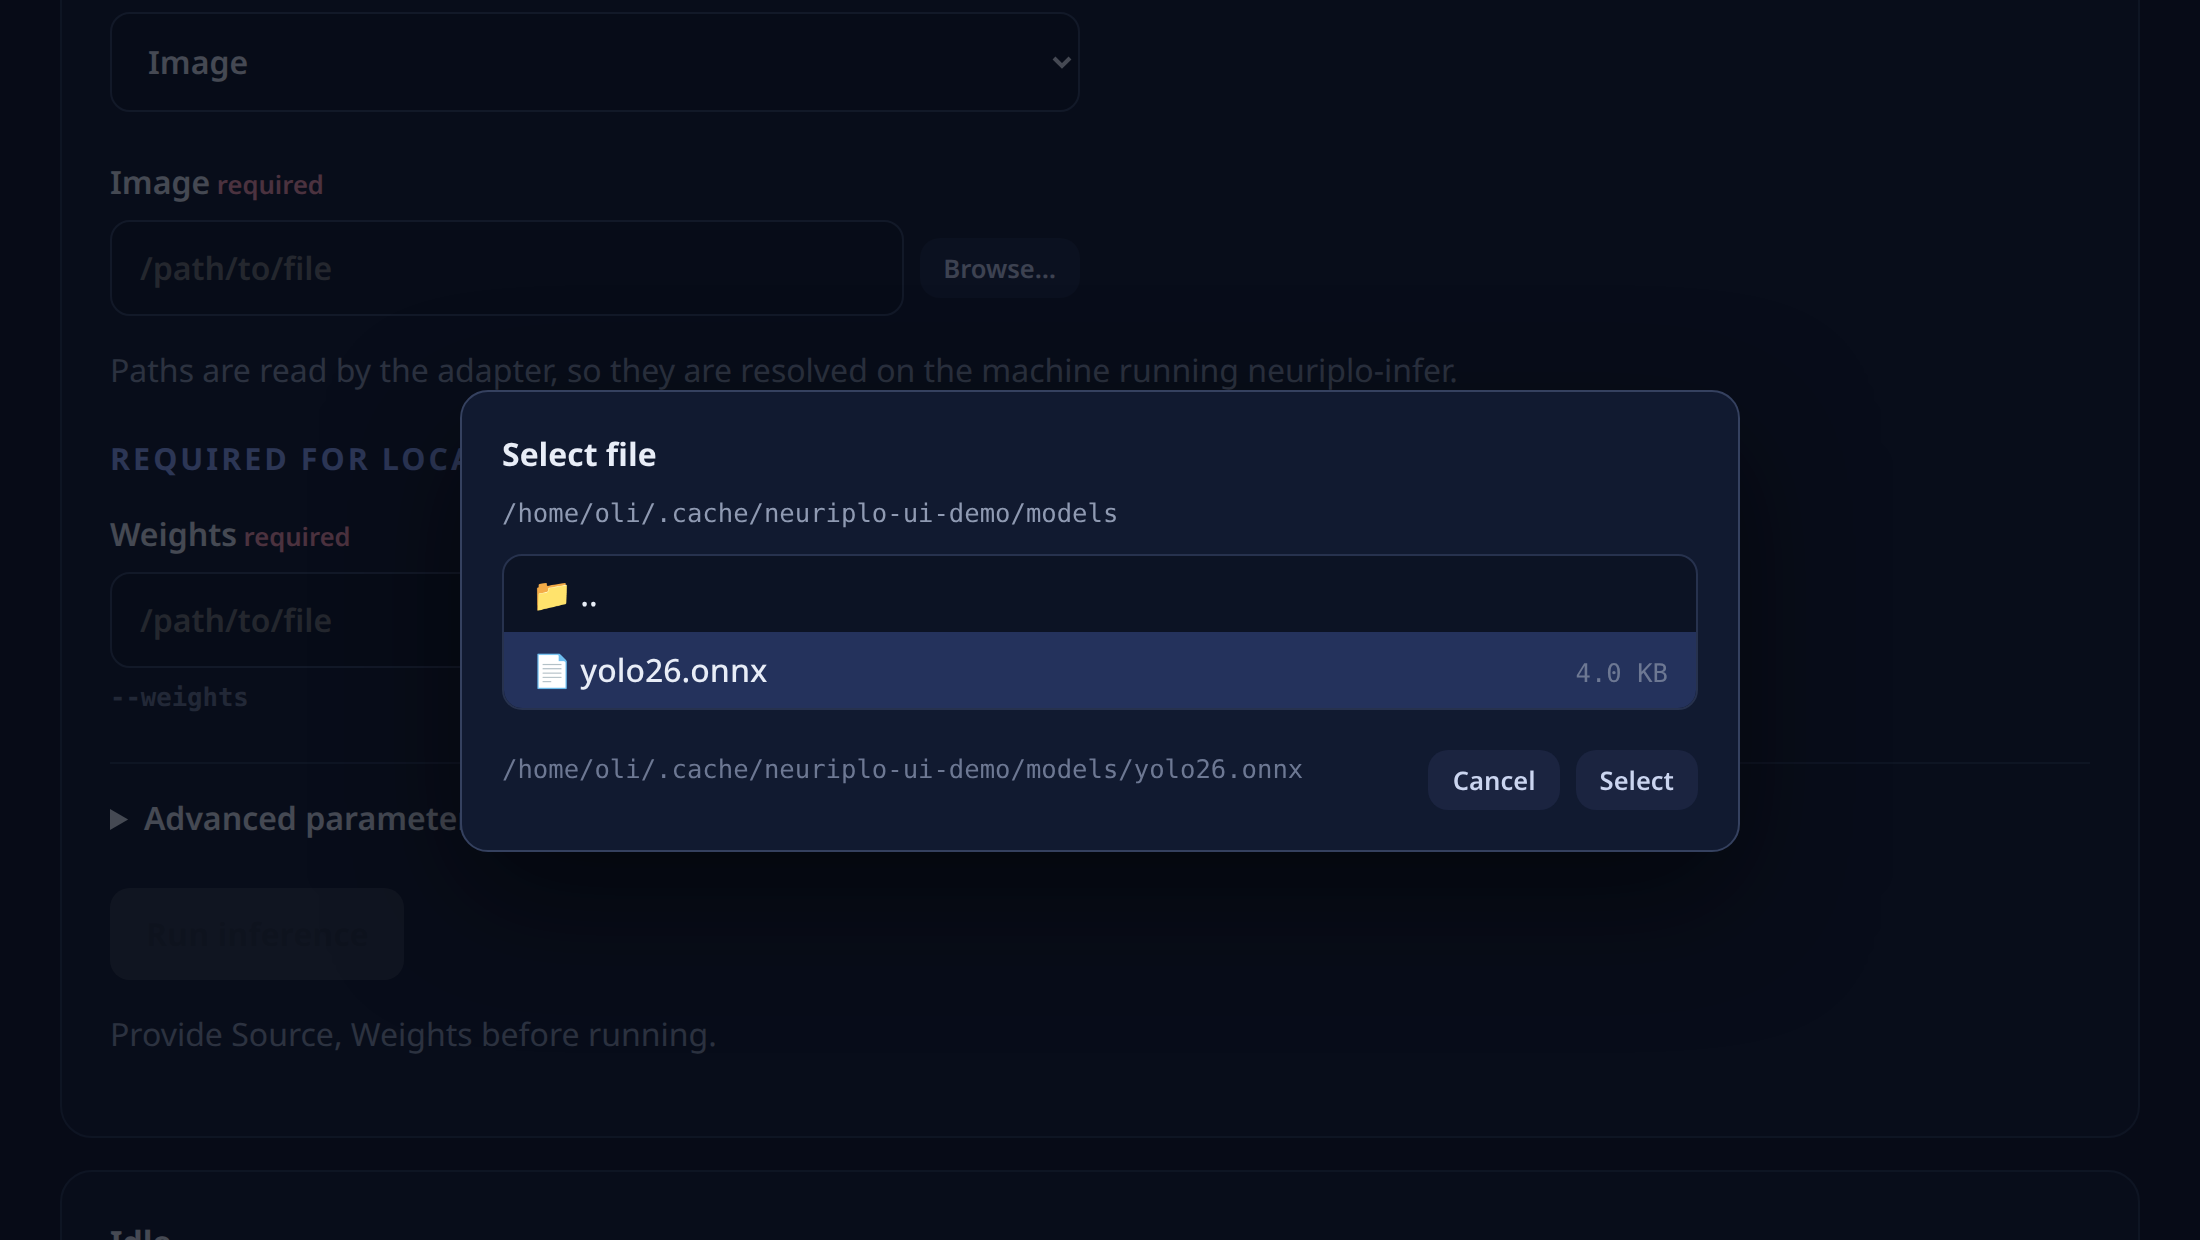
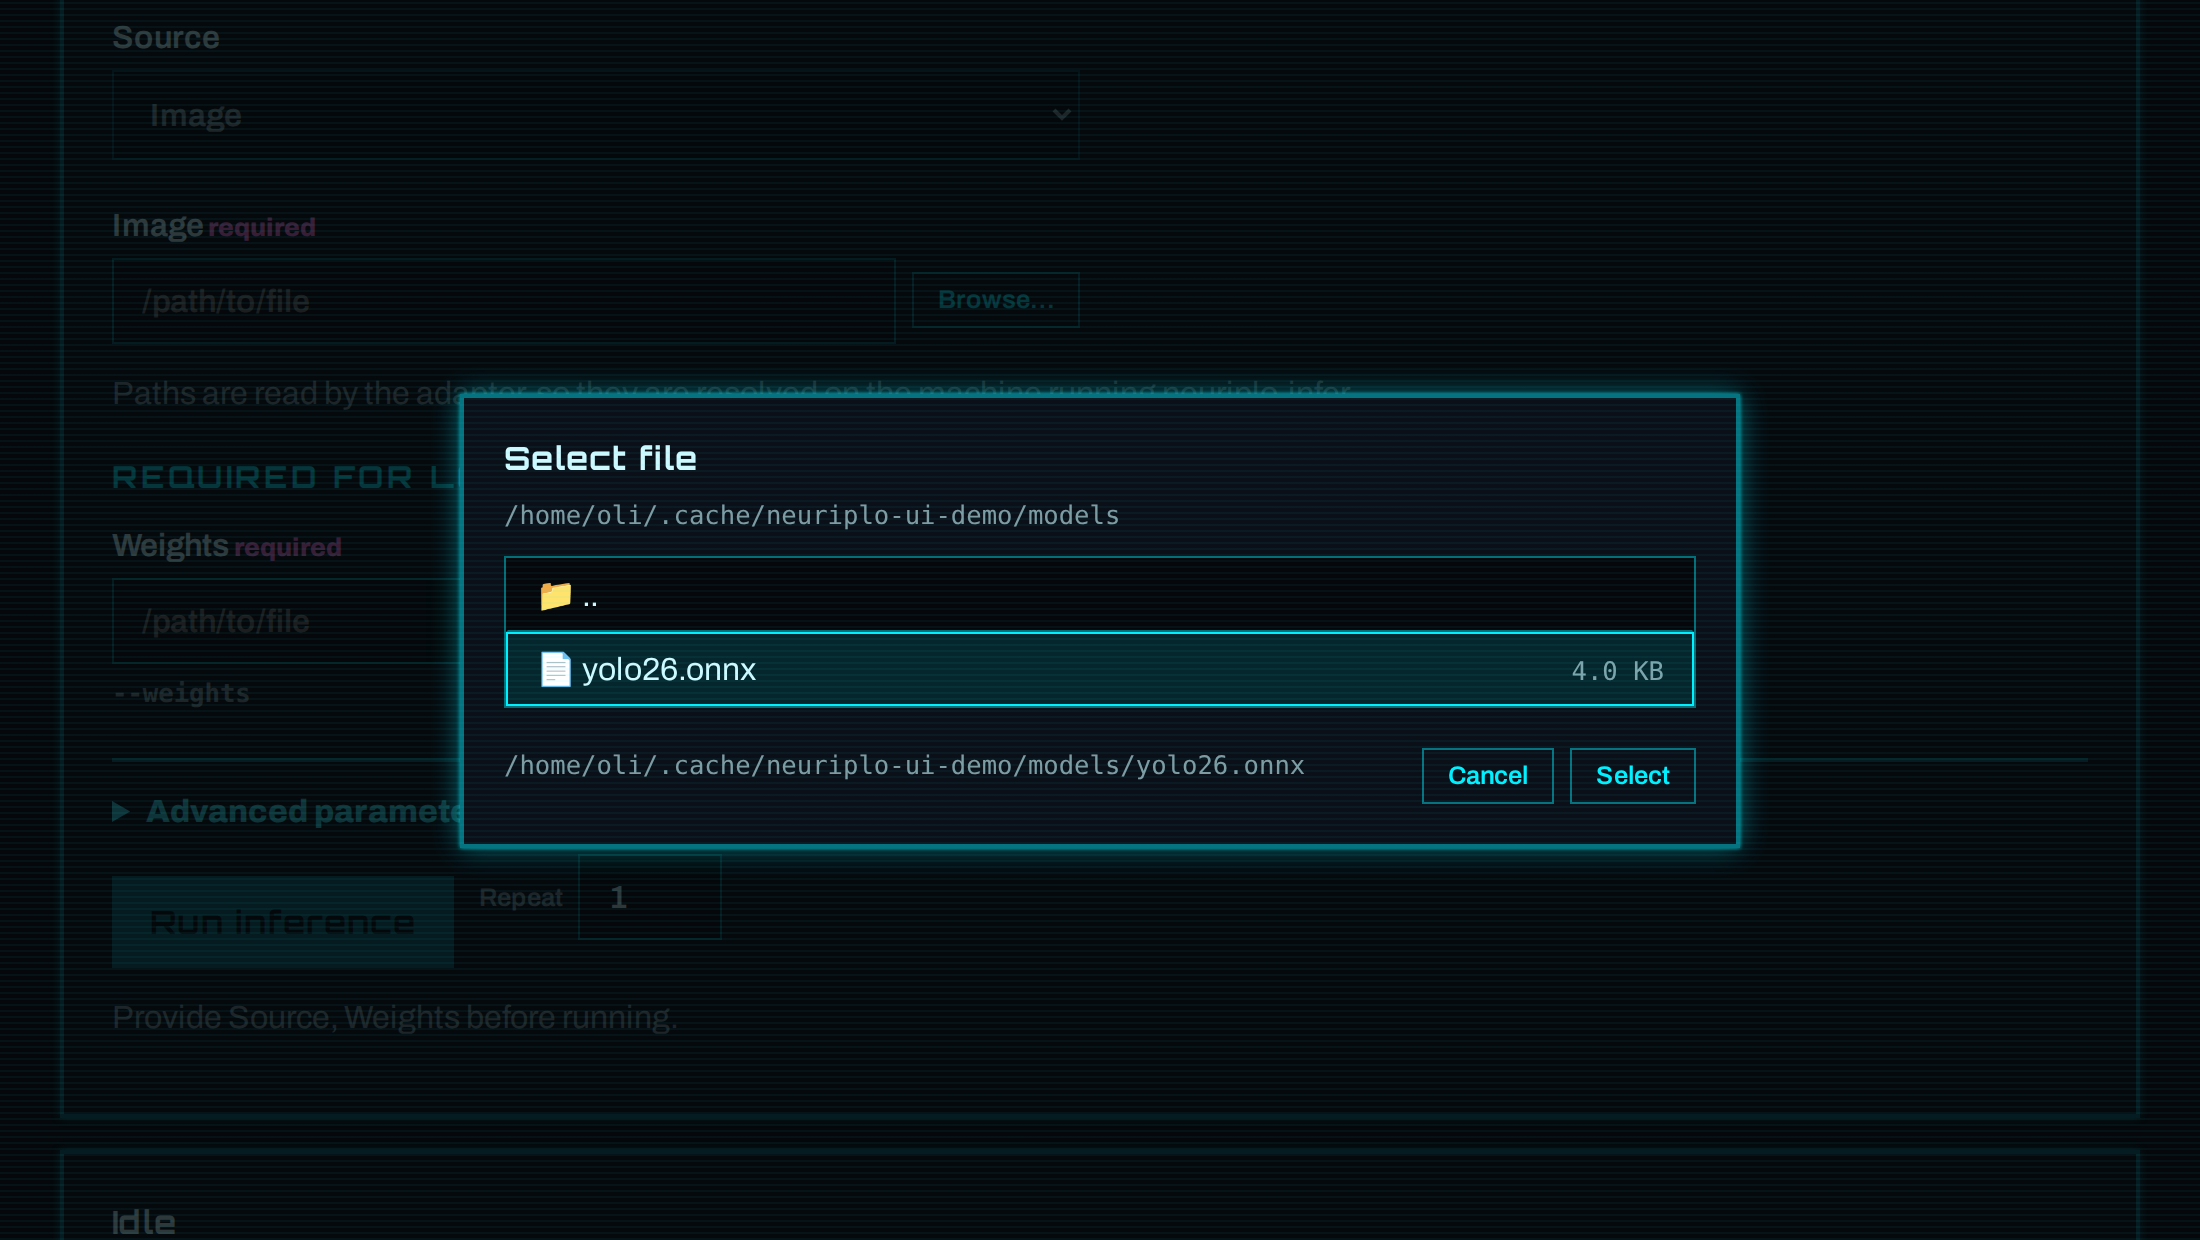
docs: re-shoot the README screenshots against the cyberpunk console
The two screenshots still showed the pre-retheme console, and ui.png also
predated the run report: it was taken when a finished run rendered a status
line and an artifact, before producer metrics, the spawned command, and the
run history panel existed.

Both are re-shot the way the E2E suite runs — the committed fixture producer
behind the built adapter and `vite preview`, driven by Playwright at a 1100px
viewport and deviceScaleFactor 2, which is the width the old files already
had. Animations are disabled for the shot so the scanline and the brand glitch
do not land mid-frame.

The producer line now reads 0.9.1-fixture, schema v2. The earlier shots were
taken against a 0.9.1-fake schema v1 stand-in that was never committed, so the
fixture is what makes these reproducible.

The first alt text is updated with them: the image is a whole run report now,
not controls above an output image.

diff --git a/README.md b/README.md
@@ -4,7 +4,7 @@ Web UI and end-to-end test harness for the Neuriplo inference pipeline.
 
 Neuriplo UI is intentionally kept separate from `neuriplo-infer`. The UI configures and launches inference runs through a small local API adapter while `neuriplo-infer` remains the source of truth for inference behavior and capabilities.
 
-![The Neuriplo UI configurator after a completed object-detection run, showing the discovered task, model, backend, and source controls above the rendered output image.](docs/ui.png)
+![The Neuriplo UI configurator after a completed object-detection run, showing the discovered task, model, backend, and source controls above the run report: producer metrics, the spawned command, and the rendered output image.](docs/ui.png)
 
 Every control above is generated from the capabilities the binary advertises;
 nothing in the frontend knows what a task, model, or backend is.
